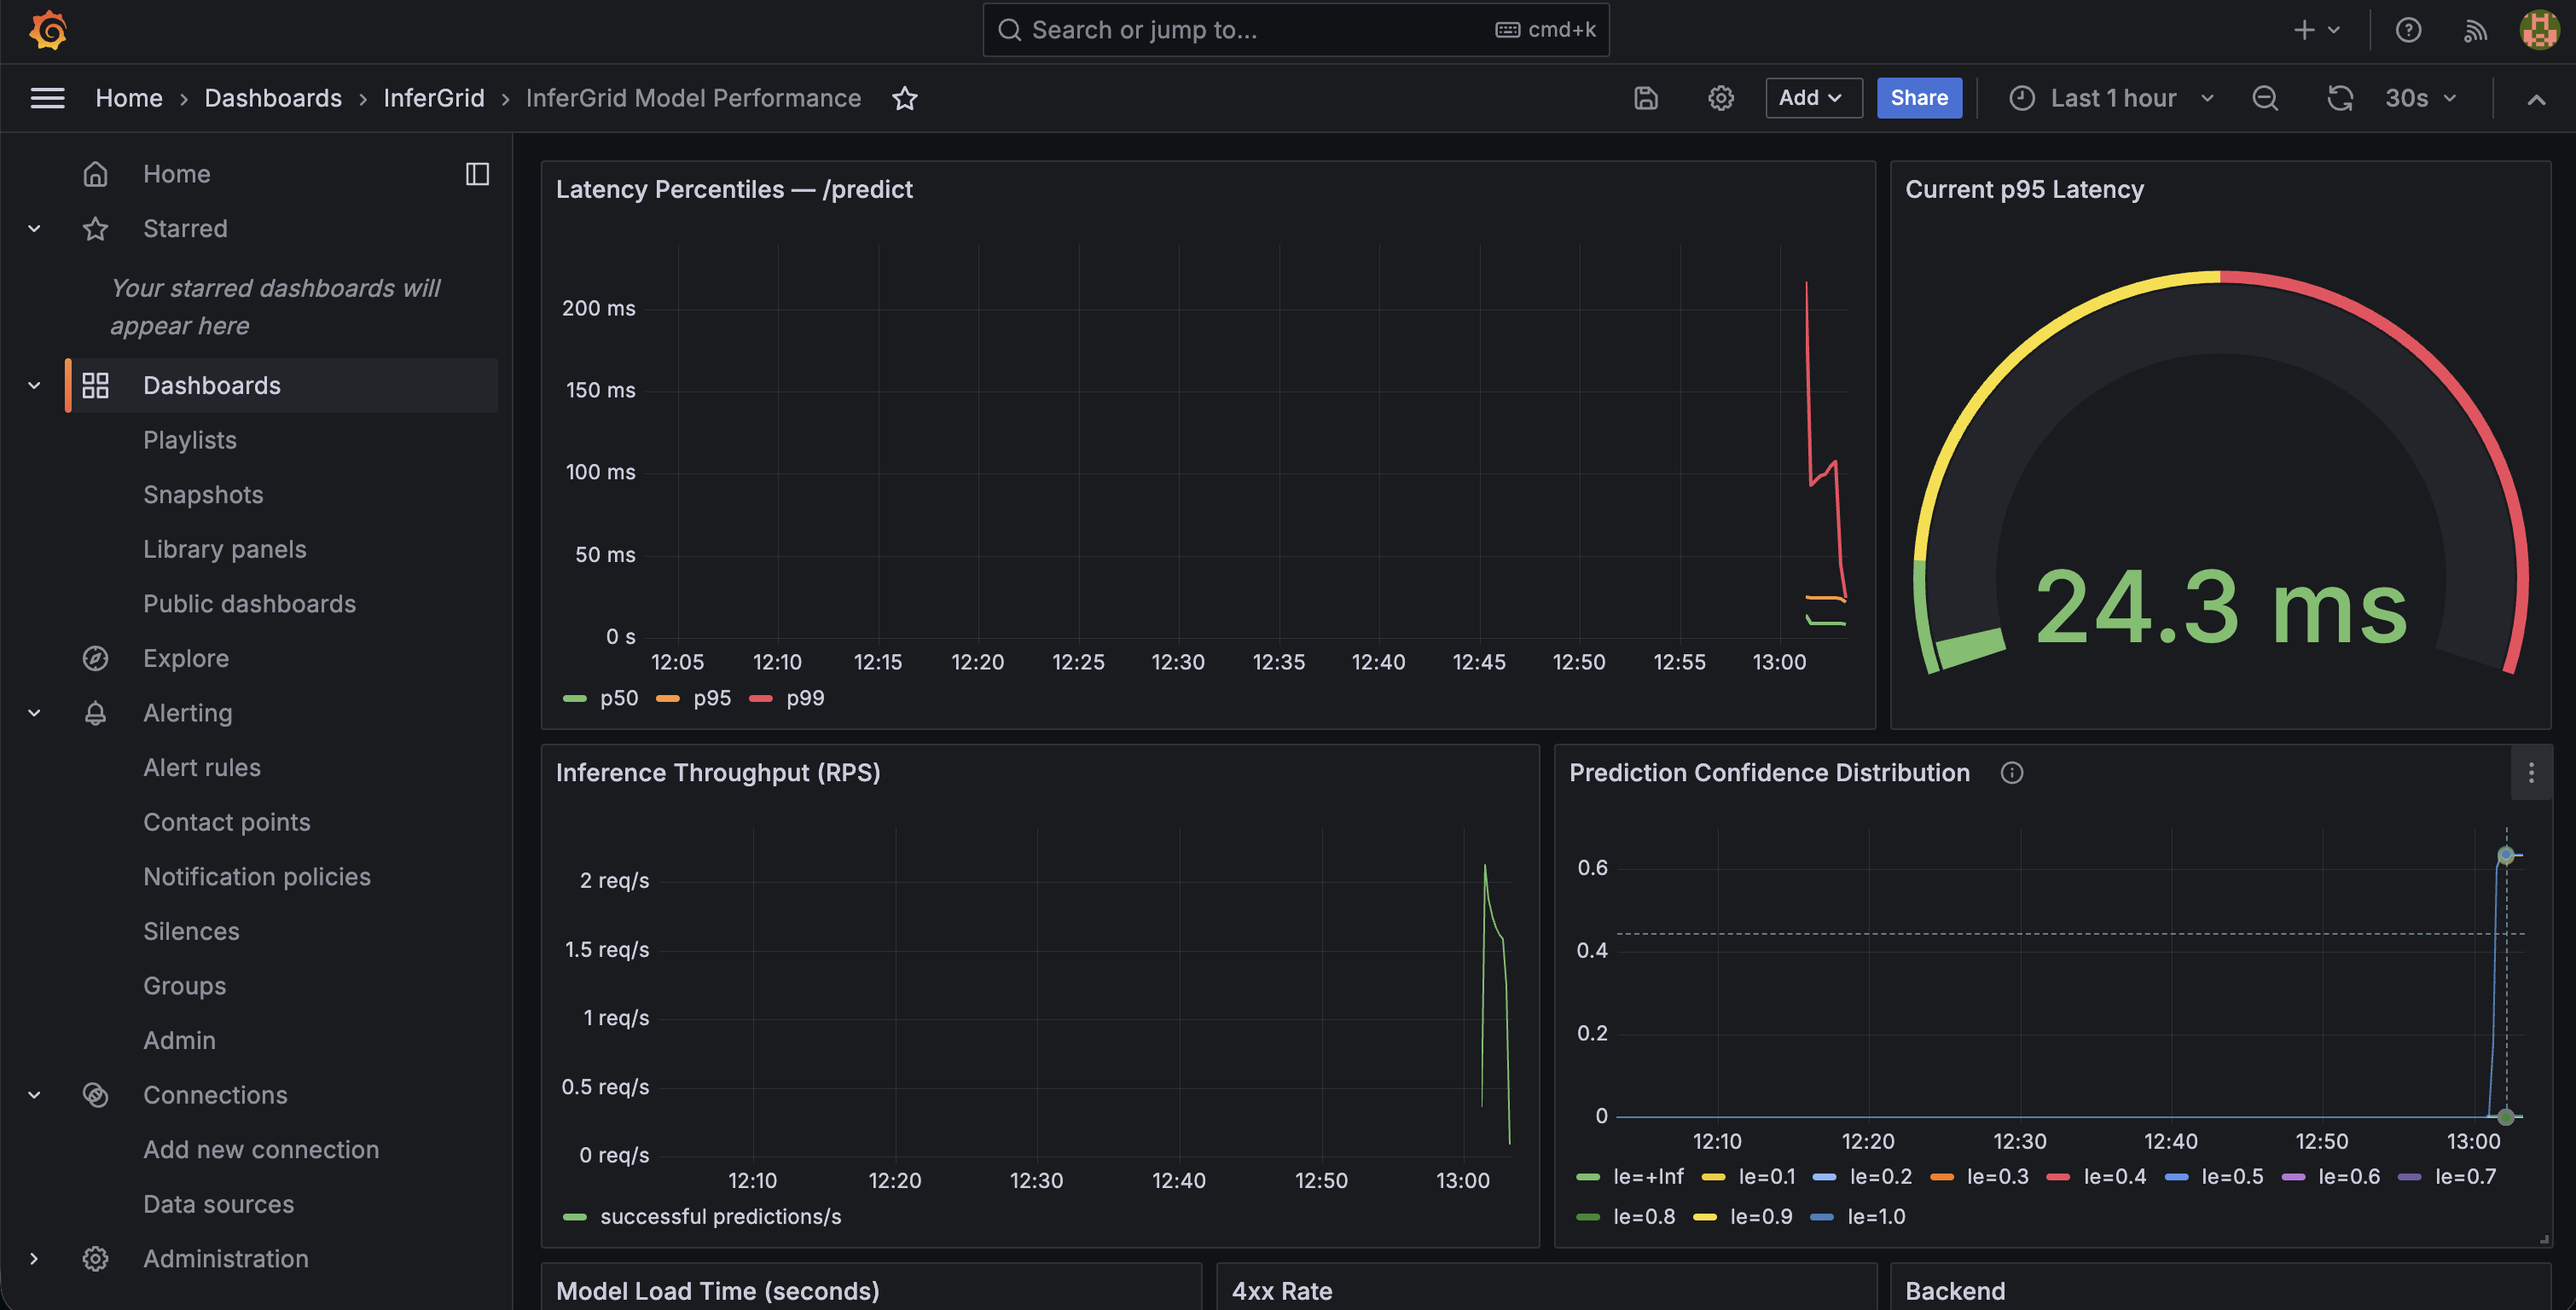
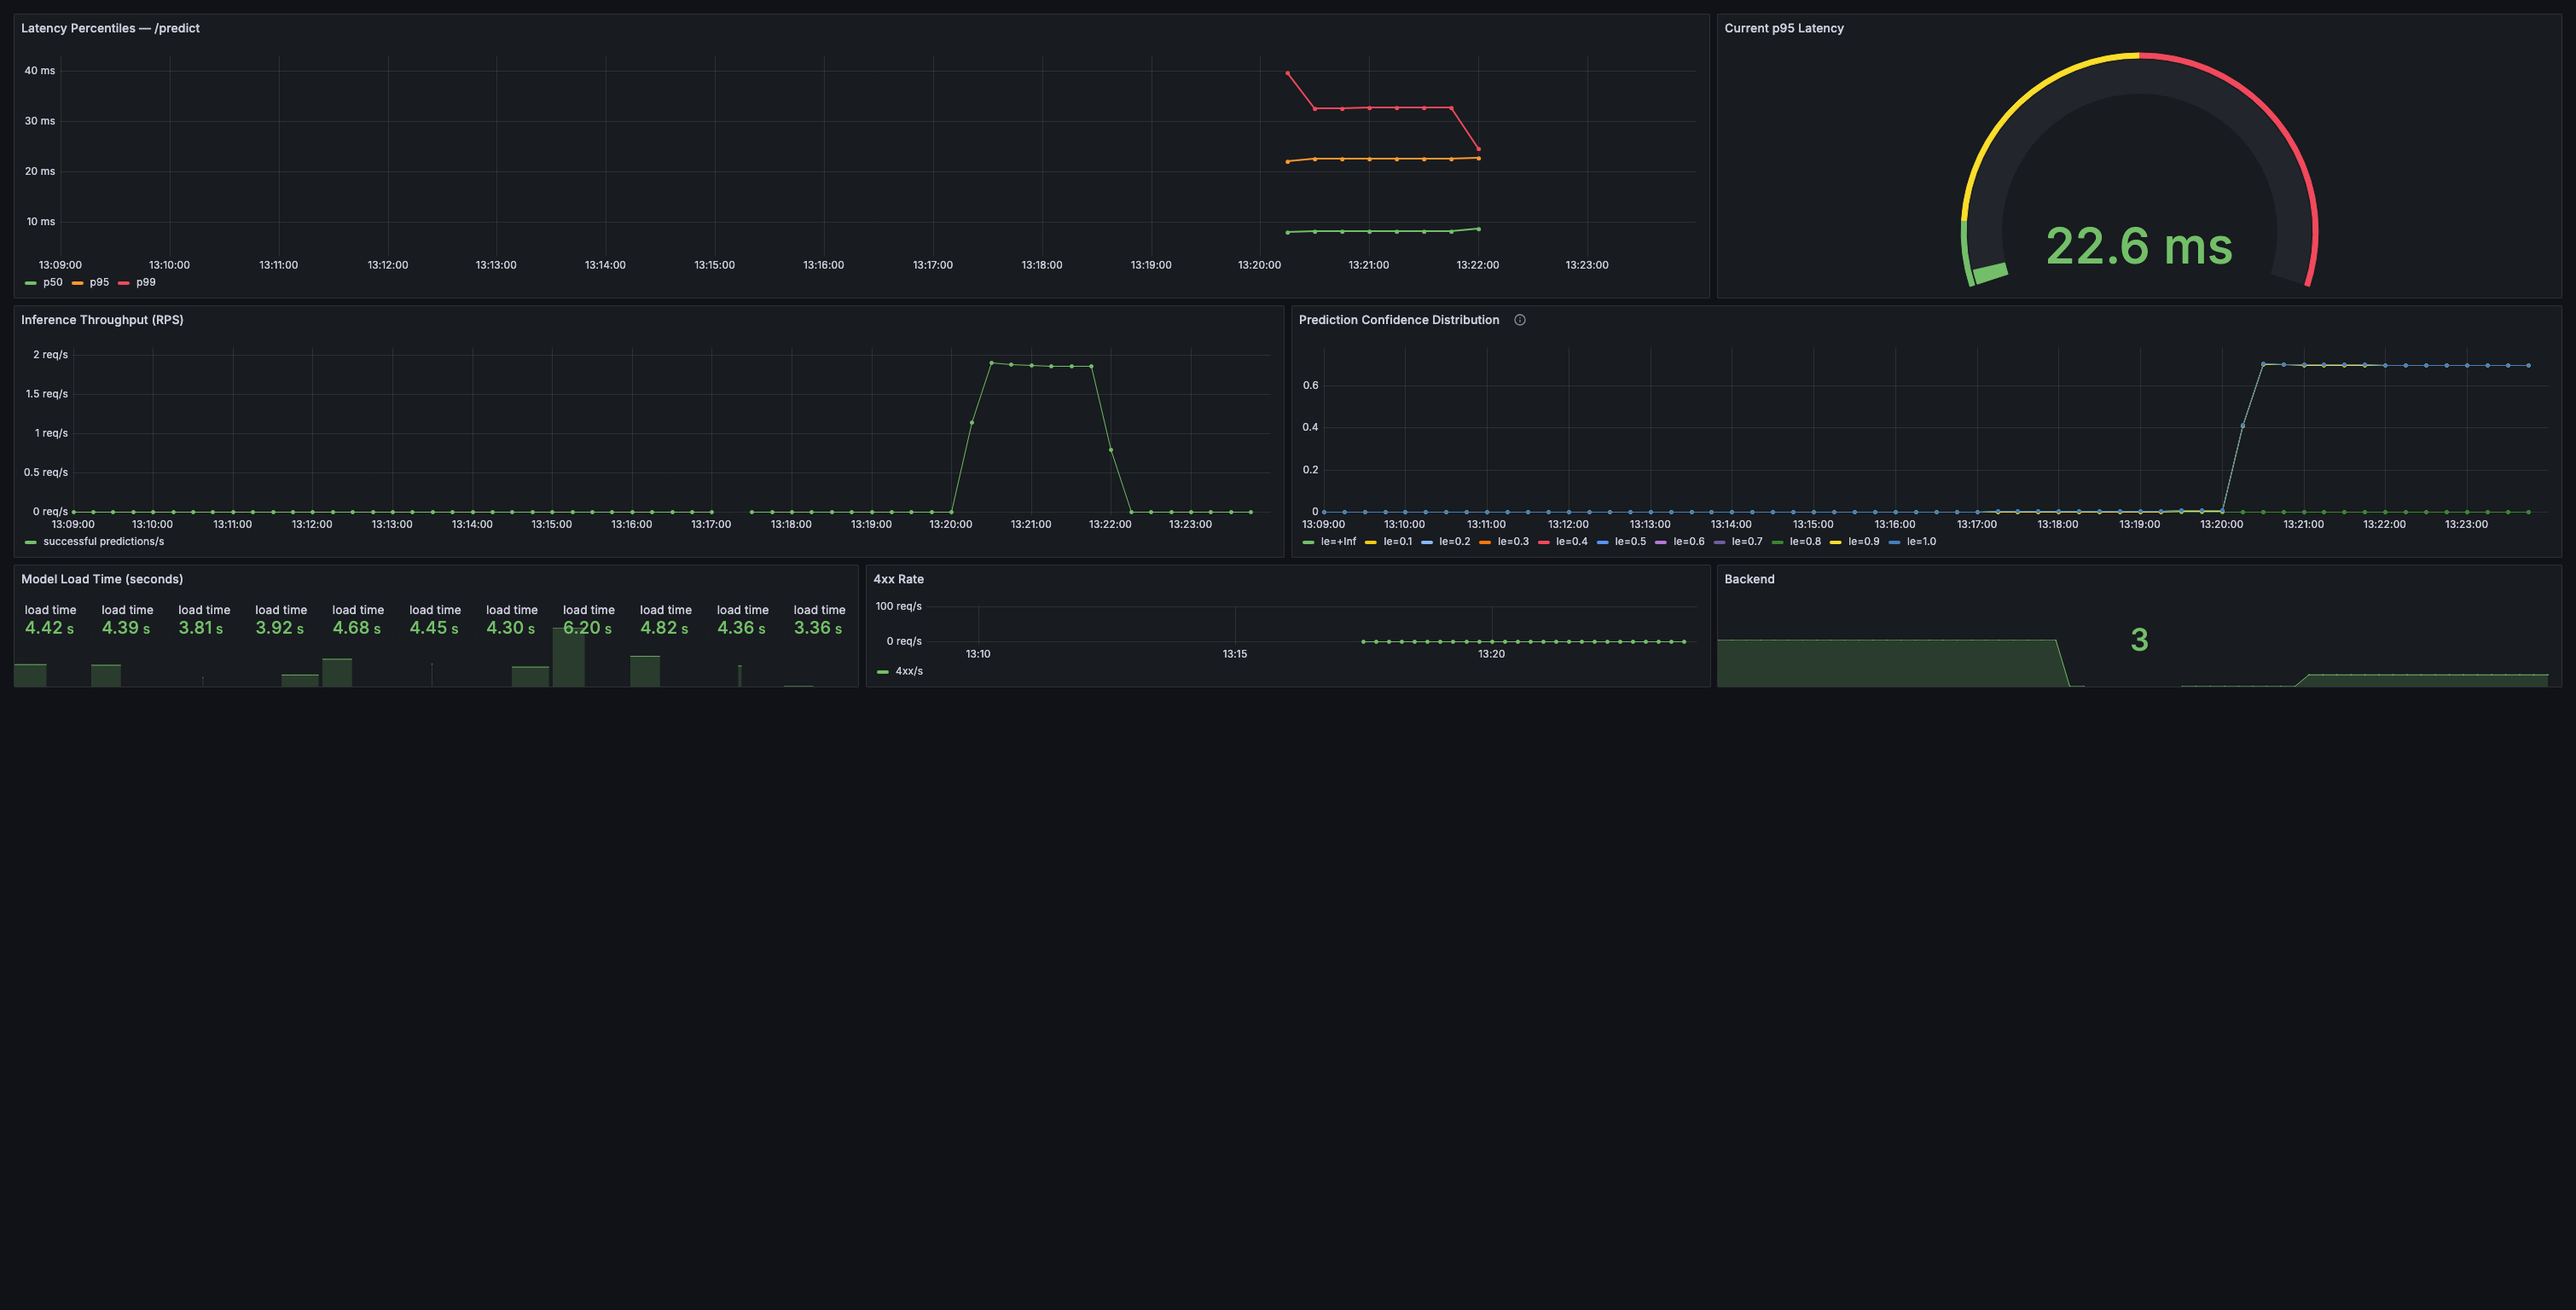
Finalized GKE deployment and fix drift detection

diff --git a/observability/drift_detector/detector.py b/observability/drift_detector/detector.py
@@ -17,7 +17,6 @@ Environment variables:
   BASELINE_PATH       Path to a .npy file containing the baseline confidence array
   DRIFT_THRESHOLD     KS-statistic threshold for drift alerts (default: 0.15)
   WINDOW_SECONDS      How far back to pull live samples (default: 3600 = 1 hour)
-  WINDOW_SAMPLES      Max samples to pull from Prometheus (default: 500)
   POLL_INTERVAL       Seconds between detector runs (default: 60)
   PORT                Port for the /metrics exposition server (default: 9091)
 """
@@ -41,7 +40,6 @@ PROMETHEUS_URL = os.environ.get(
 BASELINE_PATH = os.environ.get("BASELINE_PATH", "/app/baseline.npy")
 DRIFT_THRESHOLD = float(os.environ.get("DRIFT_THRESHOLD", "0.15"))
 WINDOW_SECONDS = int(os.environ.get("WINDOW_SECONDS", "3600"))
-WINDOW_SAMPLES = int(os.environ.get("WINDOW_SAMPLES", "500"))
 POLL_INTERVAL = int(os.environ.get("POLL_INTERVAL", "60"))
 PORT = int(os.environ.get("PORT", "9091"))
 
@@ -83,58 +81,57 @@ def load_baseline(path: str) -> np.ndarray:
     return baseline
 
 
-# Live sample fetching from Prometheus
+# Live histogram fetching from Prometheus
 
 
-def fetch_live_samples(
+def fetch_live_histogram(
     prometheus_url: str,
     window_seconds: int,
-    max_samples: int,
-) -> np.ndarray:
+) -> tuple[np.ndarray, np.ndarray, int]:
     """
-    Query Prometheus for recent prediction_confidence observations.
-    Uses the _sum / _count approach to approximate the mean per bucket,
-    then falls back to pulling raw bucket boundaries as a distribution.
+    Query cumulative prediction_confidence histogram increases over the window.
 
-    Returns a 1-D numpy array of confidence scores (may be empty).
+    Returns finite bucket bounds, cumulative counts, and total observations.
     """
-    end = time.time()
-    start = end - window_seconds
-    step = max(window_seconds // max_samples, 1)
-
-    query = "rate(prediction_confidence_sum[2m]) / rate(prediction_confidence_count[2m])"
+    query = f"sum(increase(prediction_confidence_bucket[{window_seconds}s])) by (le)"
 
     try:
         resp = requests.get(
-            f"{prometheus_url}/api/v1/query_range",
-            params={
-                "query": query,
-                "start": start,
-                "end": end,
-                "step": step,
-            },
+            f"{prometheus_url}/api/v1/query",
+            params={"query": query},
             timeout=10,
         )
         resp.raise_for_status()
         data = resp.json()
 
-        values = []
+        buckets = []
+        total = 0
         for series in data.get("data", {}).get("result", []):
-            for _, v in series.get("values", []):
-                try:
-                    fv = float(v)
-                    if 0.0 <= fv <= 1.0:
-                        values.append(fv)
-                except (ValueError, TypeError):
-                    continue
+            try:
+                boundary = series["metric"]["le"]
+                count = max(float(series["value"][1]), 0.0)
+                if boundary == "+Inf":
+                    total = max(total, int(round(count)))
+                else:
+                    buckets.append((float(boundary), count))
+            except (KeyError, IndexError, TypeError, ValueError):
+                continue
 
-        samples = np.array(values[:max_samples])
-        log.info("Fetched %d live samples from Prometheus", len(samples))
-        return samples
+        if not buckets:
+            return np.array([]), np.array([]), total
+
+        buckets.sort(key=lambda item: item[0])
+        bounds = np.array([boundary for boundary, _ in buckets])
+        cumulative_counts = np.maximum.accumulate(np.array([count for _, count in buckets]))
+        if total == 0:
+            total = int(round(cumulative_counts[-1]))
+
+        log.info("Fetched live confidence histogram with %d observations", total)
+        return bounds, cumulative_counts, total
 
     except requests.RequestException as exc:
-        log.warning("Failed to fetch live samples from Prometheus: %s", exc)
-        return np.array([])
+        log.warning("Failed to fetch live histogram from Prometheus: %s", exc)
+        return np.array([]), np.array([]), 0
 
 
 # KS-test
@@ -147,6 +144,23 @@ def compute_ks(baseline: np.ndarray, live: np.ndarray) -> tuple[float, float]:
     """
     result = ks_2samp(baseline, live)
     return float(result.statistic), float(result.pvalue)
+
+
+def compute_binned_ks(
+    baseline: np.ndarray,
+    bounds: np.ndarray,
+    cumulative_counts: np.ndarray,
+    total: int,
+) -> float:
+    """Compute the maximum baseline/live CDF difference at histogram bounds."""
+    if len(baseline) == 0 or len(bounds) == 0 or total <= 0:
+        raise ValueError("Baseline and live histogram must be non-empty")
+    if len(bounds) != len(cumulative_counts):
+        raise ValueError("Histogram bounds and counts must have equal length")
+
+    baseline_cdf = np.searchsorted(np.sort(baseline), bounds, side="right") / len(baseline)
+    live_cdf = np.clip(cumulative_counts / total, 0.0, 1.0)
+    return float(np.max(np.abs(baseline_cdf - live_cdf)))
 
 
 # Main detector loop
@@ -162,33 +176,42 @@ def run_detector(baseline: np.ndarray) -> None:
 
     while True:
         try:
-            live = fetch_live_samples(PROMETHEUS_URL, WINDOW_SECONDS, WINDOW_SAMPLES)
+            bounds, cumulative_counts, sample_count = fetch_live_histogram(
+                PROMETHEUS_URL,
+                WINDOW_SECONDS,
+            )
 
-            if len(live) < 30:
-                log.info("Not enough live samples (%d < 30) — skipping KS test", len(live))
-                WINDOW_SIZE.set(len(live))
+            if sample_count < 30:
+                log.info(
+                    "Not enough live samples (%d < 30) — skipping KS test",
+                    sample_count,
+                )
+                WINDOW_SIZE.set(sample_count)
                 time.sleep(POLL_INTERVAL)
                 continue
 
-            ks_stat, p_value = compute_ks(baseline, live)
+            ks_stat = compute_binned_ks(
+                baseline,
+                bounds,
+                cumulative_counts,
+                sample_count,
+            )
 
             KS_STATISTIC.set(ks_stat)
-            WINDOW_SIZE.set(len(live))
+            WINDOW_SIZE.set(sample_count)
 
             if ks_stat > DRIFT_THRESHOLD:
                 log.warning(
-                    "DRIFT DETECTED: KS=%.4f p=%.4f (threshold=%.2f, samples=%d)",
+                    "DRIFT DETECTED: KS=%.4f (threshold=%.2f, samples=%d)",
                     ks_stat,
-                    p_value,
                     DRIFT_THRESHOLD,
-                    len(live),
+                    sample_count,
                 )
             else:
                 log.info(
-                    "No drift: KS=%.4f p=%.4f (samples=%d)",
+                    "No drift: KS=%.4f (samples=%d)",
                     ks_stat,
-                    p_value,
-                    len(live),
+                    sample_count,
                 )
 
         except Exception as exc:  # noqa: BLE001

diff --git a/observability/drift_detector/tests/test_detector.py b/observability/drift_detector/tests/test_detector.py
@@ -5,7 +5,11 @@ No network calls so all Prometheus fetching is monkeypatched.
 
 import numpy as np
 
-from observability.drift_detector.detector import compute_ks, fetch_live_samples
+from observability.drift_detector.detector import (
+    compute_binned_ks,
+    compute_ks,
+    fetch_live_histogram,
+)
 
 # compute_ks
 
@@ -54,20 +58,63 @@ def test_ks_drift_threshold_boundary():
     assert 0.0 < ks_stat < 1.0
 
 
-# fetch_live_samples monkeypatched
+# Histogram-based KS
 
 
-def _mock_prometheus_response(values: list[float]):
-    """Build a minimal Prometheus query_range response."""
+def test_binned_ks_matches_baseline_distribution():
+    baseline = np.array([0.05, 0.15, 0.25, 0.35, 0.45])
+    bounds = np.array([0.1, 0.2, 0.3, 0.4, 0.5])
+    cumulative_counts = np.array([1, 2, 3, 4, 5])
+
+    assert compute_binned_ks(baseline, bounds, cumulative_counts, total=5) == 0.0
+
+
+def test_binned_ks_detects_shifted_distribution():
+    baseline = np.array([0.75, 0.82, 0.88, 0.93, 0.97])
+    bounds = np.array([0.1, 0.2, 0.3, 0.4, 0.5, 1.0])
+    cumulative_counts = np.array([1, 2, 3, 4, 5, 5])
+
+    assert compute_binned_ks(baseline, bounds, cumulative_counts, total=5) > 0.15
+
+
+def test_binned_ks_rejects_mismatched_histogram():
+    baseline = np.array([0.5, 0.7])
+
+    try:
+        compute_binned_ks(
+            baseline,
+            np.array([0.5, 1.0]),
+            np.array([1.0]),
+            total=2,
+        )
+    except ValueError as exc:
+        assert "equal length" in str(exc)
+    else:
+        raise AssertionError("Expected mismatched histogram to raise ValueError")
+
+
+# fetch_live_histogram monkeypatched
+
+
+def _mock_prometheus_response(buckets: list[tuple[str, float]]):
+    """Build a minimal Prometheus instant-query response."""
     import time
 
     now = time.time()
     return {
-        "data": {"result": [{"values": [[now - i * 10, str(v)] for i, v in enumerate(values)]}]}
+        "data": {
+            "result": [
+                {
+                    "metric": {"le": boundary},
+                    "value": [now, str(count)],
+                }
+                for boundary, count in buckets
+            ]
+        }
     }
 
 
-def test_fetch_live_samples_returns_array(monkeypatch):
+def test_fetch_live_histogram_returns_sorted_cumulative_counts(monkeypatch):
     import requests
 
     def mock_get(*args, **kwargs):
@@ -76,17 +123,18 @@ def test_fetch_live_samples_returns_array(monkeypatch):
                 pass
 
             def json(self):
-                return _mock_prometheus_response([0.9, 0.85, 0.8, 0.75, 0.95])
+                return _mock_prometheus_response([("1.0", 5), ("0.2", 2), ("+Inf", 5), ("0.1", 1)])
 
         return R()
 
     monkeypatch.setattr(requests, "get", mock_get)
-    samples = fetch_live_samples("http://fake", 3600, 500)
-    assert isinstance(samples, np.ndarray)
-    assert len(samples) == 5
+    bounds, cumulative_counts, total = fetch_live_histogram("http://fake", 3600)
+    np.testing.assert_array_equal(bounds, np.array([0.1, 0.2, 1.0]))
+    np.testing.assert_array_equal(cumulative_counts, np.array([1.0, 2.0, 5.0]))
+    assert total == 5
 
 
-def test_fetch_live_samples_filters_out_of_range(monkeypatch):
+def test_fetch_live_histogram_ignores_malformed_series(monkeypatch):
     import requests
 
     def mock_get(*args, **kwargs):
@@ -95,42 +143,27 @@ def test_fetch_live_samples_filters_out_of_range(monkeypatch):
                 pass
 
             def json(self):
-                # includes values outside [0, 1] that should be dropped
-                return _mock_prometheus_response([0.9, 1.5, -0.1, 0.8, 2.0, 0.7])
+                data = _mock_prometheus_response([("0.5", 3), ("+Inf", 4)])
+                data["data"]["result"].append({"metric": {}, "value": [0, "bad"]})
+                return data
 
         return R()
 
     monkeypatch.setattr(requests, "get", mock_get)
-    samples = fetch_live_samples("http://fake", 3600, 500)
-    assert all(0.0 <= v <= 1.0 for v in samples)
-    assert len(samples) == 3  # 1.5, -0.1, 2.0 filtered out
+    bounds, cumulative_counts, total = fetch_live_histogram("http://fake", 3600)
+    np.testing.assert_array_equal(bounds, np.array([0.5]))
+    np.testing.assert_array_equal(cumulative_counts, np.array([3.0]))
+    assert total == 4
 
 
-def test_fetch_live_samples_returns_empty_on_request_error(monkeypatch):
+def test_fetch_live_histogram_returns_empty_on_request_error(monkeypatch):
     import requests
 
     def mock_get(*args, **kwargs):
         raise requests.RequestException("connection refused")
 
     monkeypatch.setattr(requests, "get", mock_get)
-    samples = fetch_live_samples("http://fake", 3600, 500)
-    assert isinstance(samples, np.ndarray)
-    assert len(samples) == 0
-
-
-def test_fetch_live_samples_respects_max_samples(monkeypatch):
-    import requests
-
-    def mock_get(*args, **kwargs):
-        class R:
-            def raise_for_status(self):
-                pass
-
-            def json(self):
-                return _mock_prometheus_response([0.9] * 1000)
-
-        return R()
-
-    monkeypatch.setattr(requests, "get", mock_get)
-    samples = fetch_live_samples("http://fake", 3600, max_samples=50)
-    assert len(samples) <= 50
+    bounds, cumulative_counts, total = fetch_live_histogram("http://fake", 3600)
+    assert len(bounds) == 0
+    assert len(cumulative_counts) == 0
+    assert total == 0
